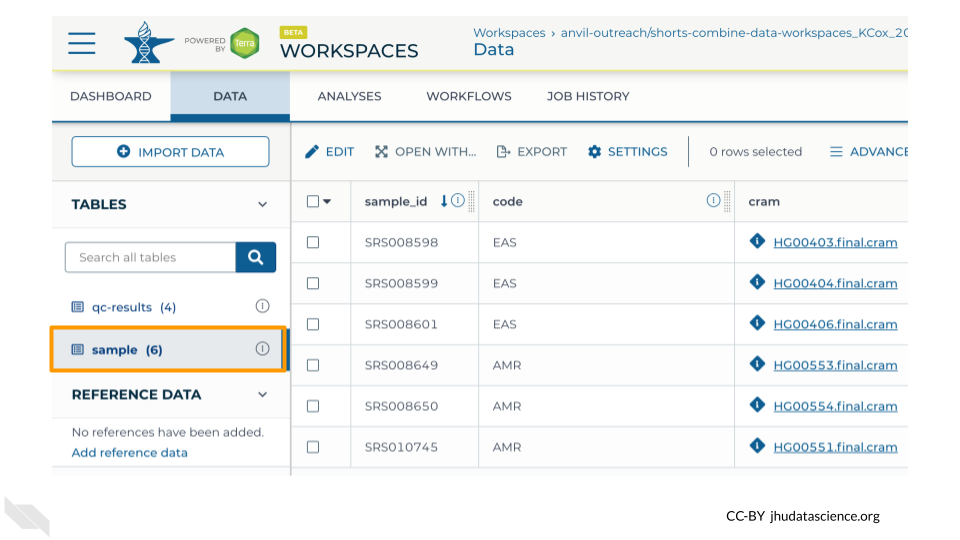
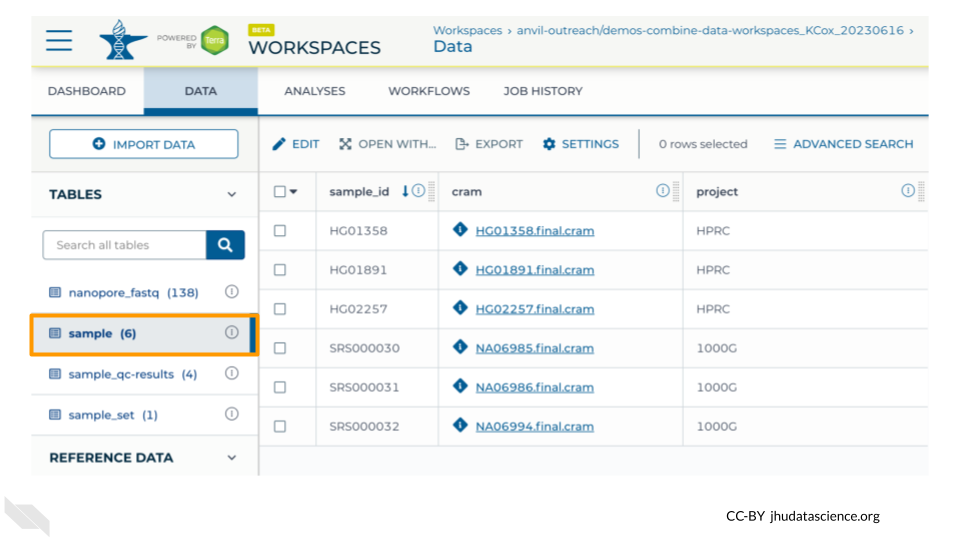
Render bookdown

diff --git a/docs/scale-with-workflows-exercises.html b/docs/scale-with-workflows-exercises.html
@@ -23,7 +23,7 @@
 
 
 
-<meta name="date" content="2023-06-15" />
+<meta name="date" content="2023-06-20" />
 
   <meta name="viewport" content="width=device-width, initial-scale=1" />
   <meta name="apple-mobile-web-app-capable" content="yes" />
@@ -260,11 +260,11 @@
 <h2><span class="header-section-number">7.3</span> Combine Data Workspace</h2>
 <p>Next we will go over how to set up a Data Table so that you can use data from another Workspace in your own analysis.</p>
 <div class="notice">
-<p>For this exercise, you will need your own copy of the <a href="https://anvil.terra.bio/#workspaces/anvil-outreach/shorts-combine-data-workspaces"><code>shorts-combine-data-workspaces</code></a> Workspace. If you have not already done so, follow the instructions in the <a href="scale-with-workflows-preparation.html#scale-with-workflows-preparation">Preparation</a> section to clone a copy of the Workspace now.</p>
+<p>For this exercise, you will need your own copy of the <a href="https://anvil.terra.bio/#workspaces/anvil-outreach/demos-combine-data-workspaces"><code>demos-combine-data-workspaces</code></a> Workspace. If you have not already done so, follow the instructions in the <a href="scale-with-workflows-preparation.html#scale-with-workflows-preparation">Preparation</a> section to clone a copy of the Workspace now.</p>
 </div>
 <div id="open-your-workspace" class="section level3" number="7.3.1">
 <h3><span class="header-section-number">7.3.1</span> Open your Workspace</h3>
-<p>To get started, navigate to your cloned copy of <code>shorts-combine-data-workspaces</code>.</p>
+<p>To get started, navigate to your cloned copy of <code>demos-combine-data-workspaces</code>.</p>
 <p>You can find your Workspace in Terra by clicking on “Workspaces” in the dropdown menu, or you can go there directly at <a href="https://anvil.terra.bio/#workspaces"><code>anvil.terra.bio/#workspaces</code></a>. Once there, you should see your Workspace under the “MY WORKSPACES” tab. It may also show up in your recently viewed Workspaces. Click on the Workspace name to open it. <strong>Make sure you are in <em>your copy</em> of the Workspace.</strong> If you are in the original Workspace, you will not have permission to start up Jupyter and run commands.</p>
 <p><img src="02-scale-with-workflows_files/figure-html/1K2qqm02W_zPhrOZsUoKj1FvKWcMO0iHgaiVwvcqMrXc_g24f280a88cb_0_44.png" title="Screenshot of Terra Workspaces page with the &quot;My Workspaces&quot; tab selected.  The name of the Workspace is highlighted." alt="Screenshot of Terra Workspaces page with the &quot;My Workspaces&quot; tab selected.  The name of the Workspace is highlighted." width="100%" /></p>
 </div>
@@ -293,15 +293,16 @@
 </div>
 <div id="exercise-4" class="section level3 unnumbered unlisted reflection">
 <h3>Exercise</h3>
-<p><strong>1.</strong> Click on the code cell under “Load Packages”, then click the Run button to load the packages.</p>
-<p>You should see some messages appear below the cell.</p>
+<p><strong>1.</strong> Click on the first code cell, then click the Run button to load the packages.</p>
 </div>
 <div id="retrieve-original-file-locations" class="section level3" number="7.3.4">
 <h3><span class="header-section-number">7.3.4</span> Retrieve original file locations</h3>
-<p>The next two cells find the links to the original data. Here we are bringing in data from two different Workspaces, <code>1000G-AMR</code> and <code>1000G-EAS</code>, which contains 1000 Genomes Project data from the Americas and East Asia, respectively.</p>
+<p>The next two cells find the links to the original data. Here we are bringing in data from two different Workspaces, <a href="https://anvil.terra.bio/#workspaces/anvil-datastorage/AnVIL_HPRC"><code>AnVIL_HPRC</code></a> and <a href="https://anvil.terra.bio/#workspaces/anvil-datastorage/1000G-high-coverage-2019"><code>1000G-high-coverage-2019</code></a>, which contains data from the <a href="https://humanpangenome.org/">Human Pangenome Reference Consortium</a> and the <a href="https://www.internationalgenome.org/">1000 Genomes Project</a>, respectively.</p>
 <ul>
-<li><code>avworkspace( "anvil-outreach/1000G-AMR" )</code> tells the AnVIL package what Workspace to access</li>
-<li><code>df_sample_amr &lt;- avtable( "sample" ) %&gt;% top_n( -2 )</code> tells it to look at the table named “sample” and to grab the bottom two samples.</li>
+<li><code>avworkspace( "anvil-datastorage/AnVIL_HPRC" )</code> tells the AnVIL package what Workspace to access</li>
+<li><code>df_sample_HPRC &lt;- avtable( "sample" ) %&gt;%</code> tells it to look at the table named “sample”.</li>
+<li>The subsequent commands select which columns and rows to import into our Workspace. These commands differ between the two code blocks because the Tables in the two source Workspaces have different structures.</li>
+<li><code>slice_head( n=2 )</code> gets only the first two samples.</li>
 </ul>
 <div class="notice">
 <p>It’s often a good idea to start off a new analysis by working with just a few samples. This can help you minimize wasted time and computing expenses while you figure out your pipeline, and can also help you estimate what your costs will be for processing larger dataset before committing to a large Workflow run.</p>
@@ -314,14 +315,13 @@
 <p><strong>2.</strong> Modify the code in both cells to get 3 samples instead of 2, and run each cell.</p>
 <p>You should see a table listing out the samples appear below each cell. Confirm that there are 3 samples in each table.</p>
 </div>
-<p>This step chose the samples we want from the original Workspace, but has not yet created links to them in your own Workspace.</p>
+<p>This step chose the samples we want from the original Workspace, but has not yet created a Data Table that links to them in your own Workspace.</p>
 <div id="exported-combined-data-table" class="section level3" number="7.3.5">
 <h3><span class="header-section-number">7.3.5</span> Exported combined Data Table</h3>
 <p>The next code block accomplishes a few things:</p>
 <ol style="list-style-type: decimal">
-<li><code>bind_rows( "AMR"=df_sample_amr, "EAS"=df_sample_eas, .id="code" )</code> combines data from the two different 1000 Genomes Workspaces into a single data table, so that you can conveniently work with all the data at once in your Workflows. It also adds a column named “code” to keep track of which samples came from the AMR vs. EAS datasets.</li>
-<li><code>select( sample_id, code, cram )</code> selects only the columns we care about for our analysis. Here we are keeping the sample ID, the superpopulation code (AMR or EAS) and the cram file.</li>
-<li><code>avtable_import( namespace="anvil-outreach", name="shorts-combine-data-workspaces" )</code> creates a Data Table in your Workspace that links to the original data, so that you can easily use it in your analyses. <strong>This is the line that we need to modify</strong> so that the Data Table is created in <em>your</em> Workspace.</li>
+<li>The <code>bind_rows()</code> command combines data from the two different Workspaces into a single data table, so that you can conveniently work with all the data at once in your Workflows. It also adds a column to keep track of which samples came from which original Workspace.</li>
+<li><code>avtable_import( entity="sample_id", namespace="anvil-outreach", name="demos-combine-data-workspaces" )</code> creates a Data Table in your Workspace that links to the original data, so that you can easily use it in your analyses. <strong>This is the line that we need to modify</strong> so that the Data Table is created in <em>your</em> Workspace.</li>
 </ol>
 </div>
 <div id="exercise-6" class="section level3 unnumbered unlisted reflection">
@@ -334,13 +334,13 @@
 <p>You can find both of these at the end of the URL for your Workspace which is structured like this:</p>
 <pre><code>anvil.terra.bio/#workspaces/namespace/name</code></pre>
 <p>For example, for this Workspace:</p>
-<pre><code>https://anvil.terra.bio/#workspaces/anvil-outreach/shorts-combine-data-workspaces_KCox_20230609</code></pre>
+<pre><code>https://anvil.terra.bio/#workspaces/anvil-outreach/demos-combine-data-workspaces_KCox_20230616</code></pre>
 <ul>
 <li>The <code>namespace</code> is <code>anvil-outreach</code></li>
-<li>The <code>name</code> is <code>shorts-combine-data-workspaces_KCox_20230609</code></li>
+<li>The <code>name</code> is <code>demos-combine-data-workspaces_KCox_20230616</code></li>
 </ul>
 <p><strong>3.</strong> Modify the code in your Notebook so that it points to your Workspace, and run the cell.</p>
-<p>If this command is successful, you will not see much output in the Notebook, but if you look in the Data tab of your Workspace you should now see the <code>sample</code> Data Table has 6 rows in it.</p>
+<p>If this command is successful, you will not see your new table in your Notebook, but if you look in the Data tab of your Workspace you should now see the <code>sample</code> Data Table has 6 rows in it.</p>
 </div>
 <div id="session-info" class="section level3" number="7.3.6">
 <h3><span class="header-section-number">7.3.6</span> Session Info</h3>
@@ -348,7 +348,7 @@
 </div>
 <div id="view-your-new-data-table" class="section level3" number="7.3.7">
 <h3><span class="header-section-number">7.3.7</span> View your new Data Table</h3>
-<p>As a last step, take a look at the Data Tab in your Workspace. You should now see a table named <code>sample</code> that contains 6 rows - 3 with code “EAS” and 3 with code “AMR”.</p>
+<p>As a last step, take a look at the Data Tab in your Workspace. You should now see a table named <code>sample</code> that contains 6 rows - 3 with project “HPRC” and 3 with project “1000G”.</p>
 <p><img src="02-scale-with-workflows_files/figure-html/1K2qqm02W_zPhrOZsUoKj1FvKWcMO0iHgaiVwvcqMrXc_g251288a74c6_0_19.png" title="Screenshot of Terra Workspace with the &quot;DATA&quot; tab selected.  The &quot;sample&quot; Data Table is selected and highlighted, and the page shows a Data Table with 6 rows in it." alt="Screenshot of Terra Workspace with the &quot;DATA&quot; tab selected.  The &quot;sample&quot; Data Table is selected and highlighted, and the page shows a Data Table with 6 rows in it." width="100%" /></p>
 <div class="notice">
 <p>Note that for this exercise we preloaded the Workspace with 4 samples - if you only see 4 rows then double check your Notebook:</p>

diff --git a/docs/index.html b/docs/index.html
@@ -23,7 +23,7 @@
 
 
 
-<meta name="date" content="2023-06-15" />
+<meta name="date" content="2023-06-20" />
 
   <meta name="viewport" content="width=device-width, initial-scale=1" />
   <meta name="apple-mobile-web-app-capable" content="yes" />
@@ -188,7 +188,7 @@
 </div>
 <div id="header">
 <h1 class="title">AnVIL Demos</h1>
-<p class="date"><em>June 15, 2023</em></p>
+<p class="date"><em>June 20, 2023</em></p>
 </div>
 <div id="about-this-series" class="section level1 unnumbered">
 <h1>About this Series</h1>

diff --git a/docs/404.html b/docs/404.html
@@ -23,7 +23,7 @@
 
 
 
-<meta name="date" content="2023-06-15" />
+<meta name="date" content="2023-06-20" />
 
   <meta name="viewport" content="width=device-width, initial-scale=1" />
   <meta name="apple-mobile-web-app-capable" content="yes" />

diff --git a/docs/exercises.html b/docs/exercises.html
@@ -23,7 +23,7 @@
 
 
 
-<meta name="date" content="2023-06-15" />
+<meta name="date" content="2023-06-20" />
 
   <meta name="viewport" content="width=device-width, initial-scale=1" />
   <meta name="apple-mobile-web-app-capable" content="yes" />

diff --git a/docs/instructor-guide.html b/docs/instructor-guide.html
@@ -23,7 +23,7 @@
 
 
 
-<meta name="date" content="2023-06-15" />
+<meta name="date" content="2023-06-20" />
 
   <meta name="viewport" content="width=device-width, initial-scale=1" />
   <meta name="apple-mobile-web-app-capable" content="yes" />

diff --git a/docs/overview.html b/docs/overview.html
@@ -23,7 +23,7 @@
 
 
 
-<meta name="date" content="2023-06-15" />
+<meta name="date" content="2023-06-20" />
 
   <meta name="viewport" content="width=device-width, initial-scale=1" />
   <meta name="apple-mobile-web-app-capable" content="yes" />

diff --git a/docs/preparation.html b/docs/preparation.html
@@ -23,7 +23,7 @@
 
 
 
-<meta name="date" content="2023-06-15" />
+<meta name="date" content="2023-06-20" />
 
   <meta name="viewport" content="width=device-width, initial-scale=1" />
   <meta name="apple-mobile-web-app-capable" content="yes" />

diff --git a/docs/scale-with-workflows-instructor-guide.html b/docs/scale-with-workflows-instructor-guide.html
@@ -23,7 +23,7 @@
 
 
 
-<meta name="date" content="2023-06-15" />
+<meta name="date" content="2023-06-20" />
 
   <meta name="viewport" content="width=device-width, initial-scale=1" />
   <meta name="apple-mobile-web-app-capable" content="yes" />

diff --git a/docs/scale-with-workflows-overview.html b/docs/scale-with-workflows-overview.html
@@ -23,7 +23,7 @@
 
 
 
-<meta name="date" content="2023-06-15" />
+<meta name="date" content="2023-06-20" />
 
   <meta name="viewport" content="width=device-width, initial-scale=1" />
   <meta name="apple-mobile-web-app-capable" content="yes" />

diff --git a/docs/scale-with-workflows-preparation.html b/docs/scale-with-workflows-preparation.html
@@ -23,7 +23,7 @@
 
 
 
-<meta name="date" content="2023-06-15" />
+<meta name="date" content="2023-06-20" />
 
   <meta name="viewport" content="width=device-width, initial-scale=1" />
   <meta name="apple-mobile-web-app-capable" content="yes" />

diff --git a/docs/02-scale-with-workflows.md b/docs/02-scale-with-workflows.md
@@ -213,13 +213,13 @@ A key feature of Terra is that **Data Tables can link to files in other Workspac
 Next we will go over how to set up a Data Table so that you can use data from another Workspace in your own analysis.
 
 :::{.notice}
-For this exercise, you will need your own copy of the [`shorts-combine-data-workspaces`](https://anvil.terra.bio/#workspaces/anvil-outreach/shorts-combine-data-workspaces) Workspace.  If you have not already done so, follow the instructions in the [Preparation](#scale-with-workflows-preparation) section to clone a copy of the Workspace now.
+For this exercise, you will need your own copy of the [`demos-combine-data-workspaces`](https://anvil.terra.bio/#workspaces/anvil-outreach/demos-combine-data-workspaces) Workspace.  If you have not already done so, follow the instructions in the [Preparation](#scale-with-workflows-preparation) section to clone a copy of the Workspace now.
 :::
 
 
 ### Open your Workspace
 
-To get started, navigate to your cloned copy of `shorts-combine-data-workspaces`.  
+To get started, navigate to your cloned copy of `demos-combine-data-workspaces`.  
 
 You can find your Workspace in Terra by clicking on "Workspaces" in the dropdown menu, or you can go there directly at [`anvil.terra.bio/#workspaces`](https://anvil.terra.bio/#workspaces).  Once there, you should see your Workspace under the "MY WORKSPACES" tab.  It may also show up in your recently viewed Workspaces.  Click on the Workspace name to open it.  **Make sure you are in *your copy* of the Workspace.**  If you are in the original Workspace, you will not have permission to start up Jupyter and run commands.
 
@@ -259,18 +259,19 @@ The first code cell loads R packages that are needed for this exercise.  You do 
 :::{.reflection}
 ### Exercise {- .unlisted}
 
-**1.** Click on the code cell under "Load Packages", then click the Run button to load the packages.
+**1.** Click on the first code cell, then click the Run button to load the packages.
 
-You should see some messages appear below the cell.
 :::
 
 
 ### Retrieve original file locations
 
-The next two cells find the links to the original data.  Here we are bringing in data from two different Workspaces, `1000G-AMR` and `1000G-EAS`, which contains 1000 Genomes Project data from the Americas and East Asia, respectively.
+The next two cells find the links to the original data.  Here we are bringing in data from two different Workspaces, [`AnVIL_HPRC`](https://anvil.terra.bio/#workspaces/anvil-datastorage/AnVIL_HPRC) and [`1000G-high-coverage-2019`](https://anvil.terra.bio/#workspaces/anvil-datastorage/1000G-high-coverage-2019), which contains data from the [Human Pangenome Reference Consortium](https://humanpangenome.org/) and the [1000 Genomes Project](https://www.internationalgenome.org/), respectively.
 
-- `avworkspace( "anvil-outreach/1000G-AMR" )` tells the AnVIL package what Workspace to access
-- `df_sample_amr <- avtable( "sample" ) %>% top_n( -2 )` tells it to look at the table named "sample" and to grab the bottom two samples.
+- `avworkspace( "anvil-datastorage/AnVIL_HPRC" )` tells the AnVIL package what Workspace to access
+- `df_sample_HPRC <- avtable( "sample" ) %>%` tells it to look at the table named "sample".
+- The subsequent commands select which columns and rows to import into our Workspace.  These commands differ between the two code blocks because the Tables in the two source Workspaces have different structures.
+- `slice_head( n=2 )` gets only the first two samples.
 
 :::{.notice}
 It's often a good idea to start off a new analysis by working with just a few samples.  This can help you minimize wasted time and computing expenses while you figure out your pipeline, and can also help you estimate what your costs will be for processing larger dataset before committing to a large Workflow run.
@@ -288,15 +289,14 @@ It does not cost anything to add these samples to your Data Table, since you are
 You should see a table listing out the samples appear below each cell.  Confirm that there are 3 samples in each table.
 :::
 
-This step chose the samples we want from the original Workspace, but has not yet created links to them in your own Workspace.
+This step chose the samples we want from the original Workspace, but has not yet created a Data Table that links to them in your own Workspace.
 
 ### Exported combined Data Table
 
 The next code block accomplishes a few things:
 
-1. `bind_rows( "AMR"=df_sample_amr, "EAS"=df_sample_eas, .id="code" )` combines data from the two different 1000 Genomes Workspaces into a single data table, so that you can conveniently work with all the data at once in your Workflows.  It also adds a column named "code" to keep track of which samples came from the AMR vs. EAS datasets.
-1. `select( sample_id, code, cram )` selects only the columns we care about for our analysis.  Here we are keeping the sample ID, the superpopulation code (AMR or EAS) and the cram file.
-1. `avtable_import( namespace="anvil-outreach", name="shorts-combine-data-workspaces" )` creates a Data Table in your Workspace that links to the original data, so that you can easily use it in your analyses.  **This is the line that we need to modify** so that the Data Table is created in *your* Workspace.
+1. The `bind_rows()` command combines data from the two different Workspaces into a single data table, so that you can conveniently work with all the data at once in your Workflows.  It also adds a column to keep track of which samples came from which original Workspace.
+1. `avtable_import( entity="sample_id", namespace="anvil-outreach", name="demos-combine-data-workspaces" )` creates a Data Table in your Workspace that links to the original data, so that you can easily use it in your analyses.  **This is the line that we need to modify** so that the Data Table is created in *your* Workspace.
 
 :::{.reflection}
 ### Exercise {- .unlisted}
@@ -315,16 +315,16 @@ anvil.terra.bio/#workspaces/namespace/name
 For example, for this Workspace:
 
 ```
-https://anvil.terra.bio/#workspaces/anvil-outreach/shorts-combine-data-workspaces_KCox_20230609
+https://anvil.terra.bio/#workspaces/anvil-outreach/demos-combine-data-workspaces_KCox_20230616
 ```
 
 - The `namespace` is `anvil-outreach`
-- The `name` is `shorts-combine-data-workspaces_KCox_20230609`
+- The `name` is `demos-combine-data-workspaces_KCox_20230616`
 
 
 **3.** Modify the code in your Notebook so that it points to your Workspace, and run the cell.
 
-If this command is successful, you will not see much output in the Notebook, but if you look in the Data tab of your Workspace you should now see the `sample` Data Table has 6 rows in it.
+If this command is successful, you will not see your new table in your Notebook, but if you look in the Data tab of your Workspace you should now see the `sample` Data Table has 6 rows in it.
 
 :::
 
@@ -335,7 +335,7 @@ It's generally a good idea to document information about the packages (and their
 
 ### View your new Data Table
 
-As a last step, take a look at the Data Tab in your Workspace.  You should now see a table named `sample` that contains 6 rows - 3 with code "EAS" and 3 with code "AMR".
+As a last step, take a look at the Data Tab in your Workspace.  You should now see a table named `sample` that contains 6 rows - 3 with project "HPRC" and 3 with project "1000G".
 
 <img src="02-scale-with-workflows_files/figure-html//1K2qqm02W_zPhrOZsUoKj1FvKWcMO0iHgaiVwvcqMrXc_g251288a74c6_0_19.png" title="Screenshot of Terra Workspace with the &quot;DATA&quot; tab selected.  The &quot;sample&quot; Data Table is selected and highlighted, and the page shows a Data Table with 6 rows in it." alt="Screenshot of Terra Workspace with the &quot;DATA&quot; tab selected.  The &quot;sample&quot; Data Table is selected and highlighted, and the page shows a Data Table with 6 rows in it." width="100%" />
 

diff --git a/docs/index.md b/docs/index.md
@@ -1,6 +1,6 @@
 ---
 title: "AnVIL Demos"
-date: "June 15, 2023"
+date: "June 20, 2023"
 site: bookdown::bookdown_site
 documentclass: book
 bibliography: book.bib
